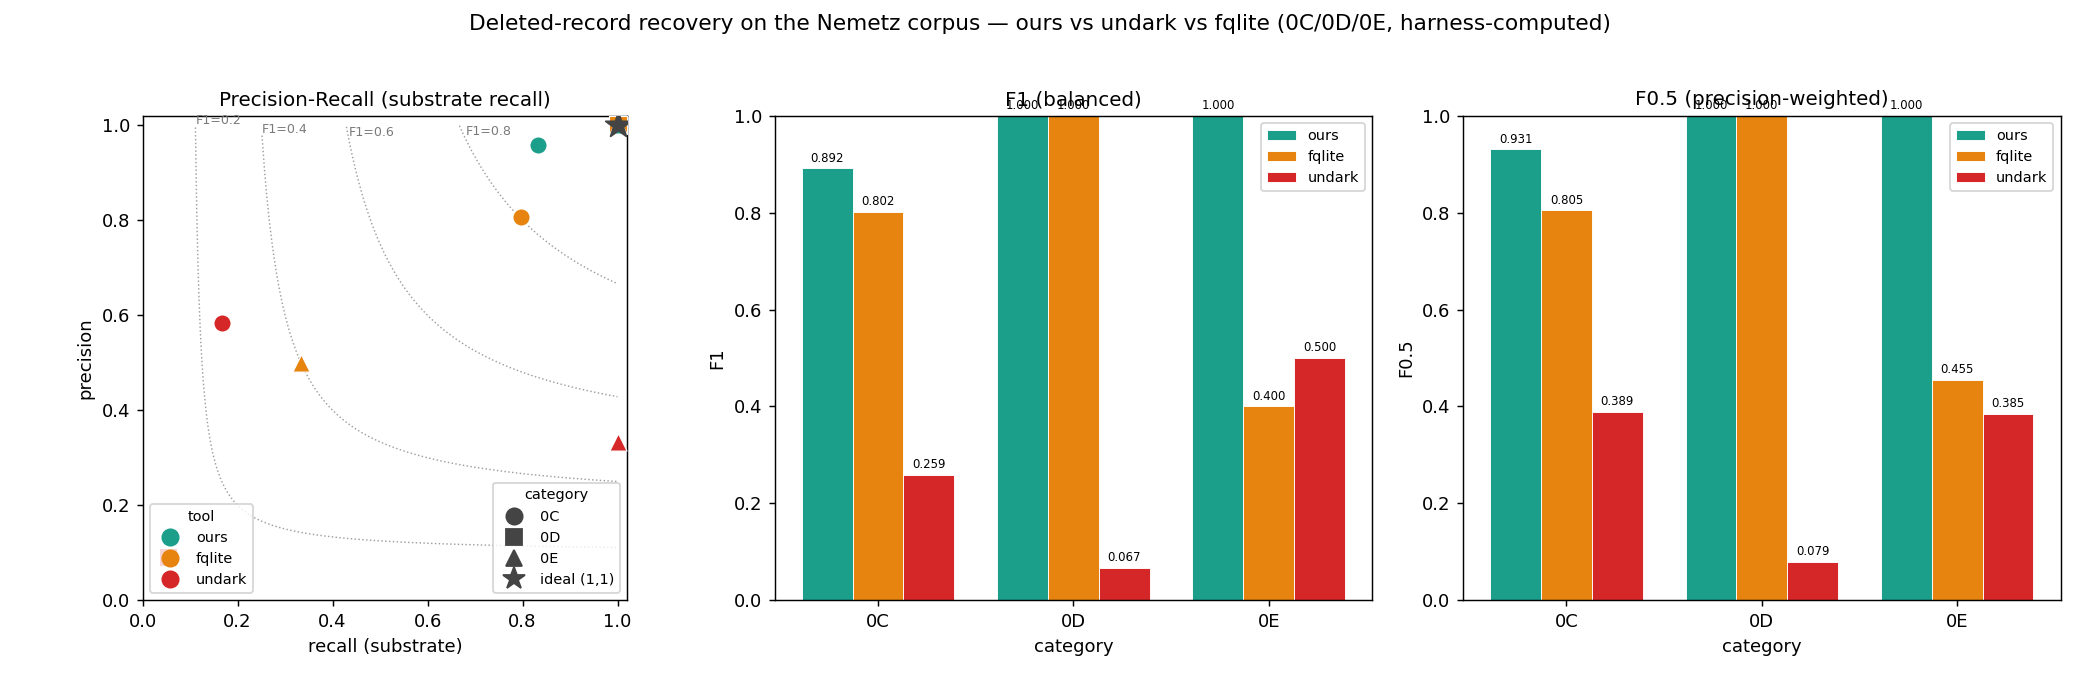
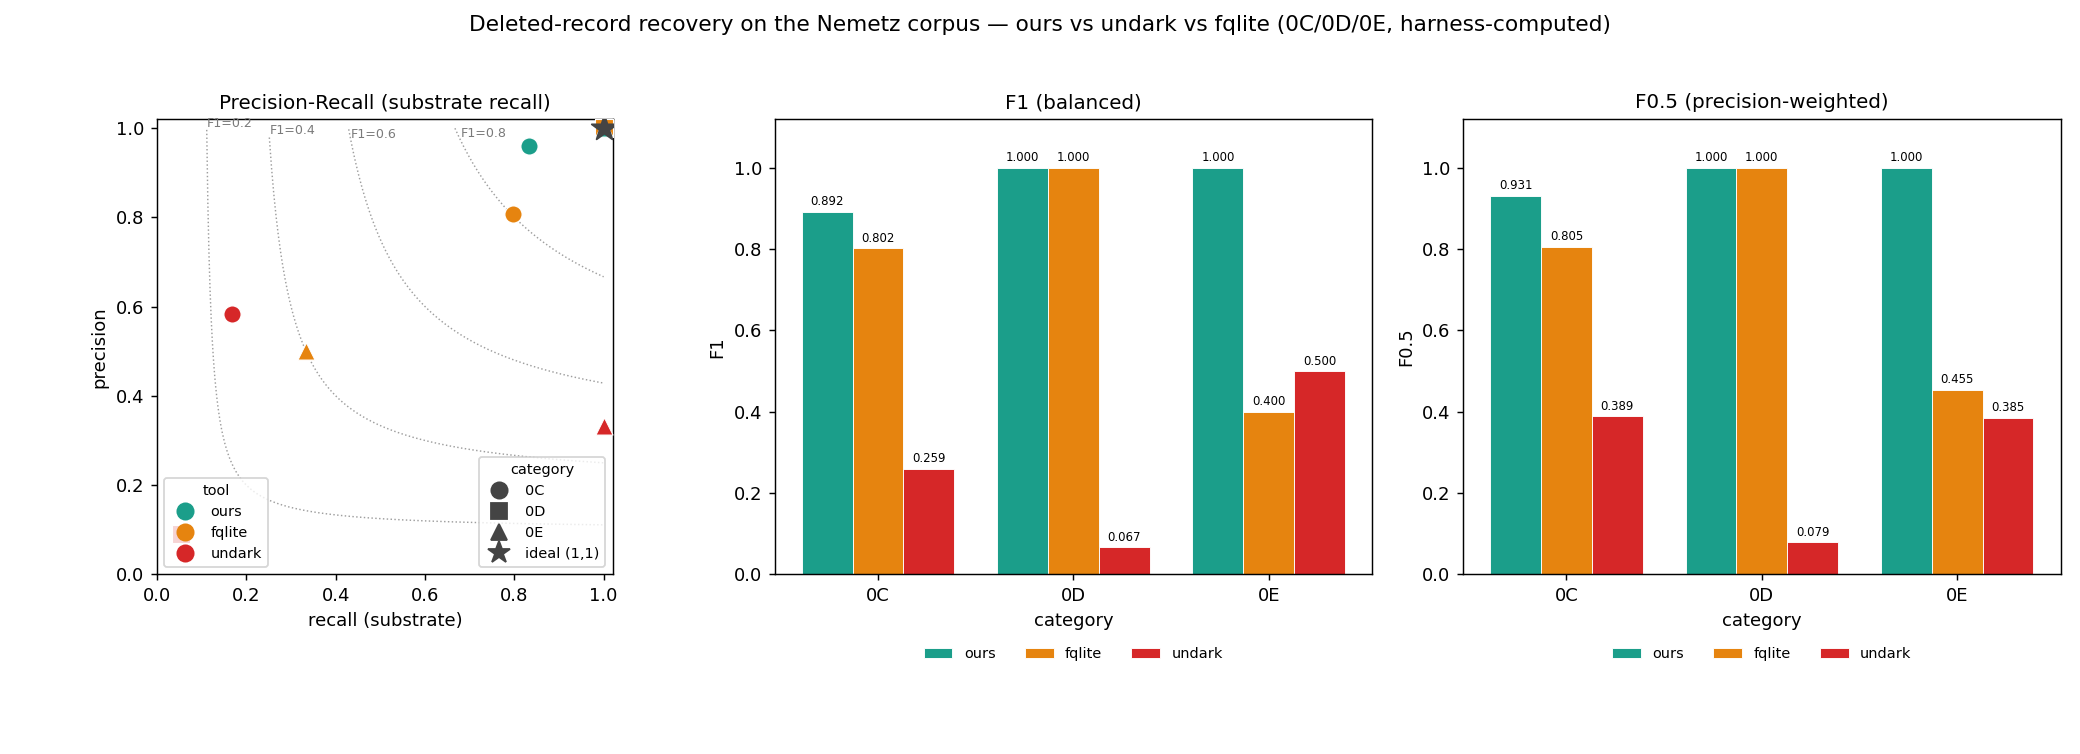
docs(plot): fix bar-chart layout — headroom above 1.0 bars + legend below axes
The F1/F0.5 bar panels clipped the value labels on 1.000 bars (drawn 2pt above
a y-axis that stopped at 1.0) and the upper-right legend overlapped those
full-height bars (ours/fqlite on 0D, ours on 0E). Raise ylim to 1.12 for label
headroom and move the tool legend below each panel (horizontal, frameless).

diff --git a/docs/plot_comparison.py b/docs/plot_comparison.py
@@ -133,7 +133,9 @@ def grouped_bars(ax, rows, metric, title):
     """Grouped bars: category on x, one bar per tool, with value labels."""
     ax.set_title(title, fontsize=11)
     ax.set_ylabel(metric.upper().replace("_", "."))
-    ax.set_ylim(0, 1.0)
+    # Headroom above 1.0 so full-height (1.000) bars and their value labels never
+    # collide with the top spine.
+    ax.set_ylim(0, 1.12)
     x = np.arange(len(CAT_ORDER))
     width = 0.26
     for i, tool in enumerate(TOOL_ORDER):
@@ -160,12 +162,20 @@ def grouped_bars(ax, rows, metric, title):
     ax.set_xticks(x)
     ax.set_xticklabels(CAT_ORDER)
     ax.set_xlabel("category")
-    ax.legend(fontsize=8, loc="upper right")
+    # Legend BELOW the axis (horizontal): the upper area is full of 1.000 bars
+    # (ours/fqlite on 0D, ours on 0E), so an in-plot legend would overlap them.
+    ax.legend(
+        fontsize=8,
+        loc="upper center",
+        bbox_to_anchor=(0.5, -0.13),
+        ncol=len(TOOL_ORDER),
+        frameon=False,
+    )
 
 
 def main():
     rows = load(CSV_PATH)
-    fig, axes = plt.subplots(1, 3, figsize=(16, 5.2))
+    fig, axes = plt.subplots(1, 3, figsize=(16, 5.8))
     panel_pr(axes[0], rows)
     grouped_bars(axes[1], rows, "f1", "F1 (balanced)")
     grouped_bars(axes[2], rows, "f0_5", "F0.5 (precision-weighted)")
@@ -174,7 +184,7 @@ def main():
         "(0C/0D/0E, harness-computed)",
         fontsize=12,
     )
-    fig.tight_layout(rect=(0, 0, 1, 0.96))
+    fig.tight_layout(rect=(0, 0.07, 1, 0.96))
     fig.savefig(PNG_PATH, dpi=130)
     print(f"wrote {PNG_PATH}")
 
